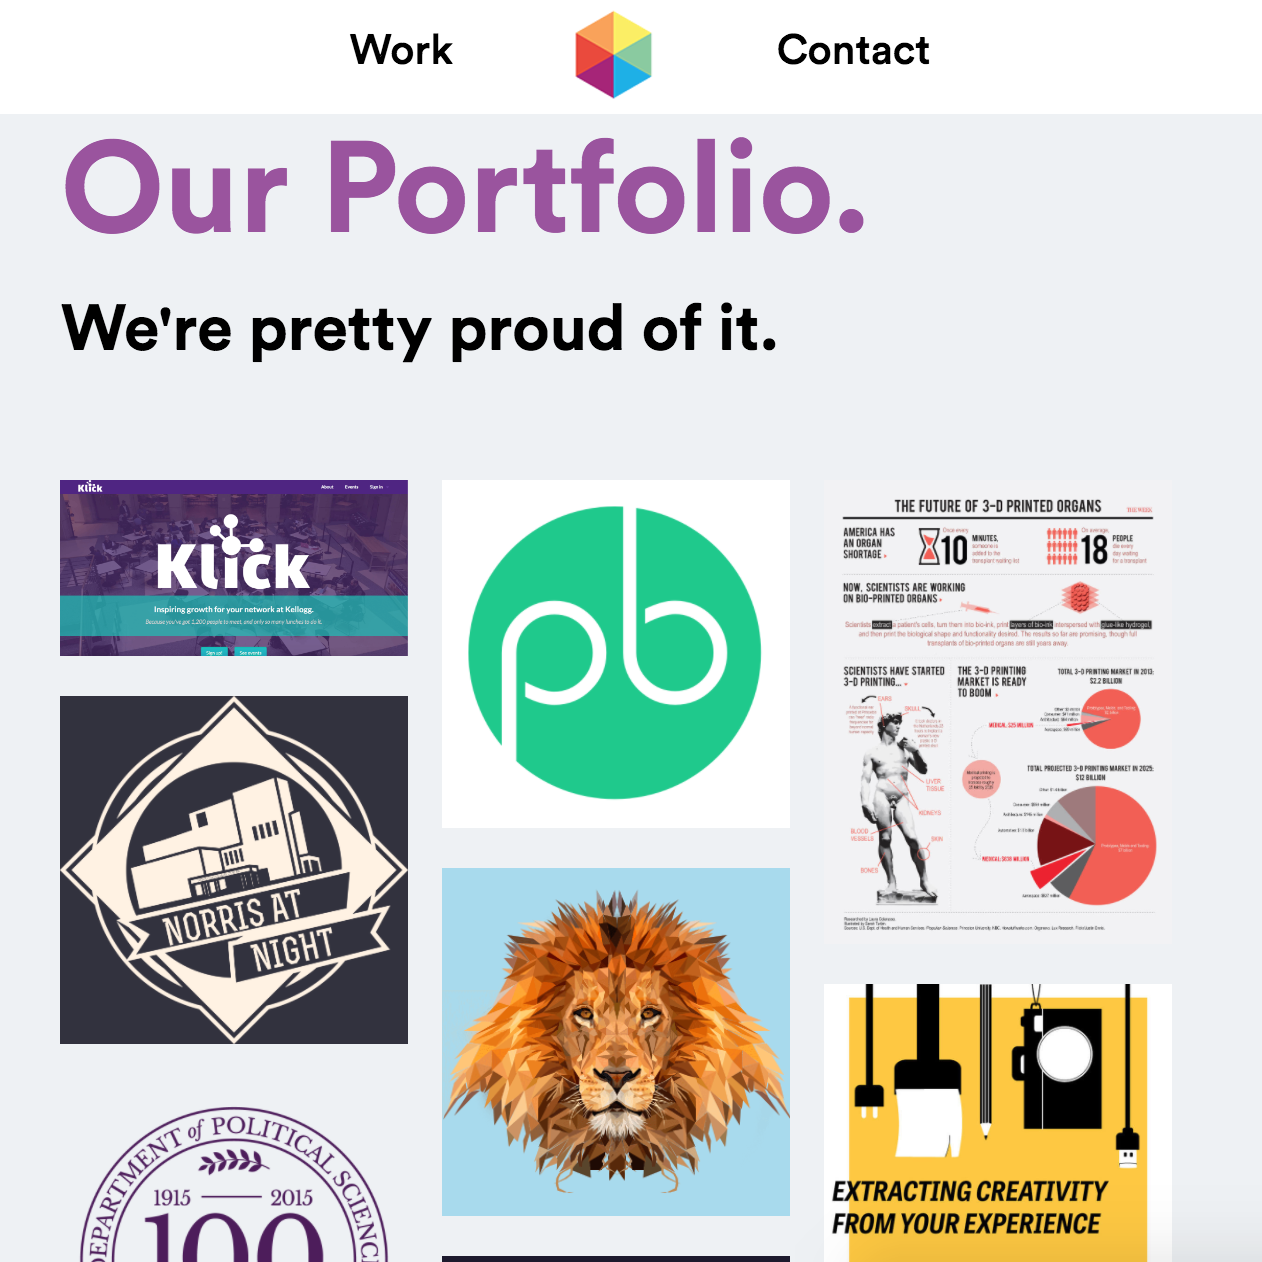
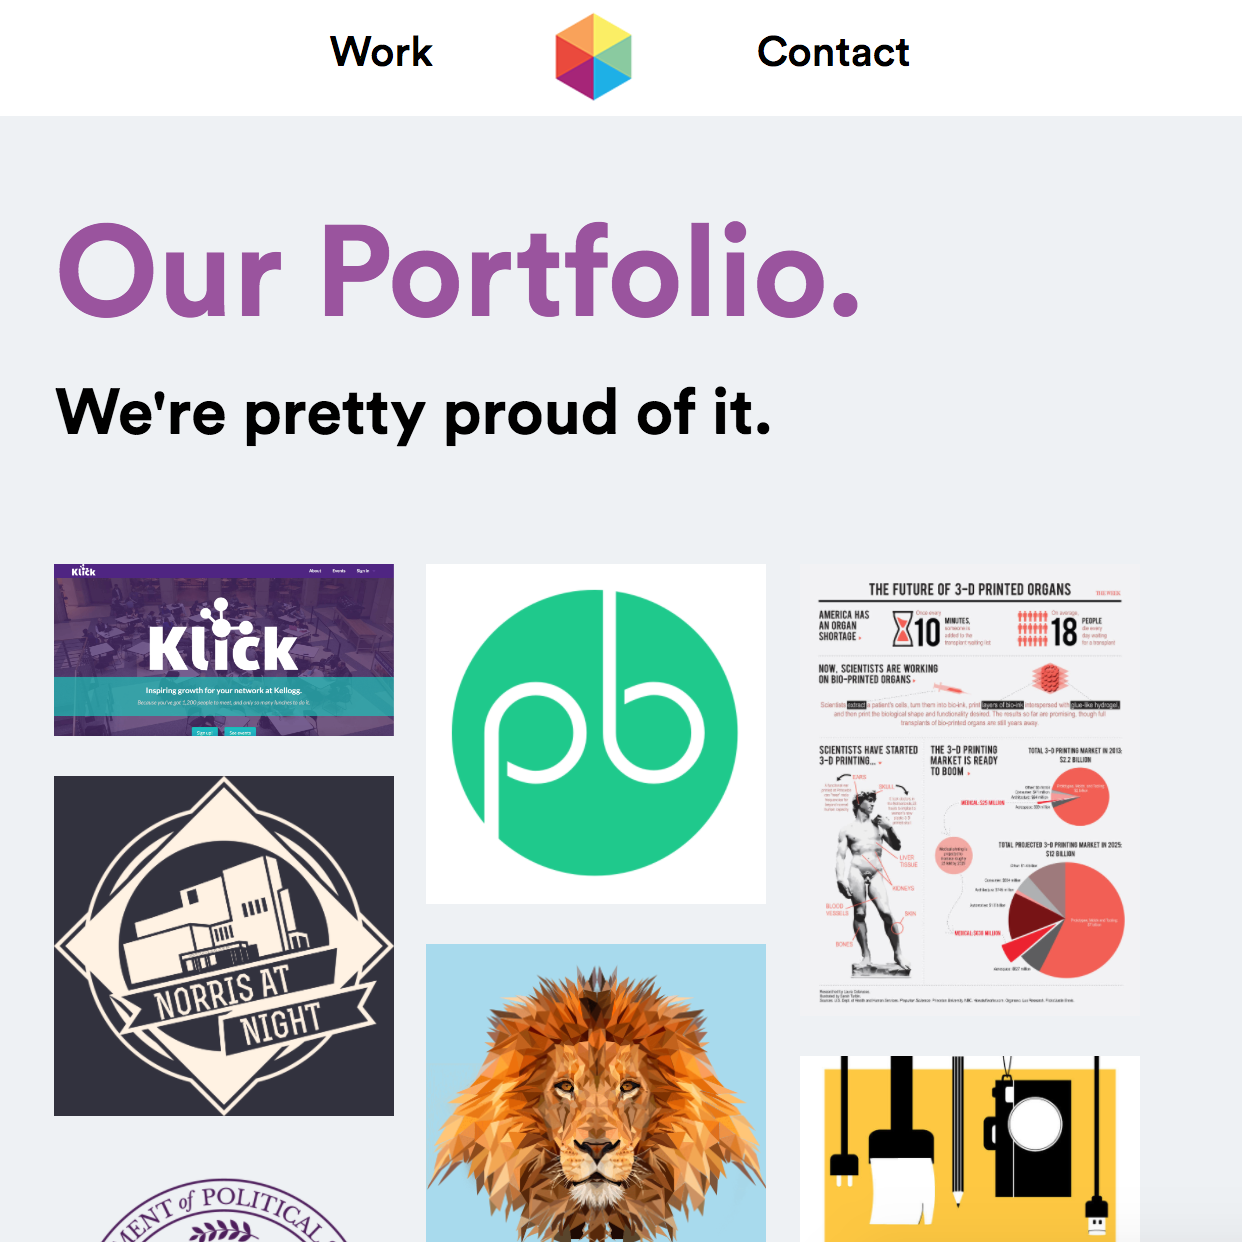
added roles, and some structure to collab

diff --git a/views/home.html b/views/home.html
@@ -16,25 +16,30 @@
 
 <section class=clearfix id=dwsite> 
     <div class="site-section col-offset-1  inlined col-14 red-border">
+
 <!--        <img class="logo-tag" src="img/logos/dwlogo.png">-->
-        <div class="hidden-wrap left medium-col-offset-2 col-offset-1 medium-col-12 col-7"><a target=_blank href="http://www.designworks.nu"><img  src="img/portfolio/DWImage.png" class="product-img-hover product-img col-16"></a></div>
+        <div class="hidden-wrap left medium-col-offset-2 col-offset-1 medium-col-12 col-7">
+<a target=_blank href="http://www.designworks.nu"><img  src="img/portfolio/DWImage.png" class="product-img-hover product-img col-16"></a>
+</div>
         <div class="medium-col-offset-2 col-offset-1 product medium-col-12 col-6 inlined">
             <h2 class="red product-title col-16">designworks</h2>
             <h5 class="thin product-description col-16">
-                <span class="normal-thick">the gist - </span> the business of our sales and the creativity of our design expressed as a direct, to-the-point <span class=normal>website</span> (with a colorful personality) <br><br>
-                <span class=normal-thick>inspiration - </span> designworks had a goal to move away from conventional web design and an ambition to push what unconventional could be. thus this new website. the 'unconventional' ideas in that site helped create this one.
+                <span class="normal-thick">the gist - </span> the business of our sales and the creativity of our design expressed as a direct, to-the-point <span class=normal>website</span> (with a colorful personality) 
+                <br><br>
+                <span class=normal-thick>the inspiration - </span> designworks had a goal to move away from conventional web design and an ambition to push what unconventional could be. thus this new website. the 'unconventional' ideas in that site helped create this one.
 <!--                front-end developer-->
-<!--                <br><br>-->
-<!--                <span class="normal-thick">tag - </span>front-end developer-->
-
-            </h5>
-            <a target=_blank href="http://www.designworks.nu" class="cta generate-button no-decoration aligned blue-border col-8 normal-thick" type="button">go to site</a>
+                <br><br>
+                <span class=normal-thick>the role - </span>front-end developer
+            <a target=_blank href="http://www.designworks.nu" class="cta generate-button no-decoration aligned blue-border col-8 normal-thick">go to site</a>
+</h5>
         </div>
+
     </div>  
 </section>
       
 <section class=clearfix id=escape>   
     <div class="site-section col-offset-1 inlined col-14 purple-border">
+
 <!--        <img src="img/logos/escape-logo.png" class="logo-tag">-->
         <div class="hidden-wrap right product-img rcol-offset-1 rmedium-col-offset-2 rmedium-col-12 col-7 right">
             <h6 class=normal>{{name}}</h6>
@@ -48,8 +53,12 @@
             <h5 class="thin product-description col-16">
                 <span class="normal-thick">the gist - </span> an itinerary generator to make the most of each day in Cape Town, South Africa all packaged into an <span class=normal>API</span> for easy access
                 <br><br>
-                <span class=normal-thick>background - </span> my favorite project to date. 4 days and a small team to scrape travel websites, create a database, write procedures to make itineraries, and bundle it all up on an ec2 instance. 
+                <span class=normal-thick>the background - </span> my favorite project to date. 4 days and a small team to scrape travel websites, create a database, write procedures to make itineraries, and bundle it all up on an ec2 instance. 
+                <br><br>
+            <span class=normal-thick>the role - </span>manager + developer
+
             </h5>
+            
 <!--            manager + developer  -->
             <button class="cta generate-button blue-border col-8 normal " type="button" ng-click="generate()">test it here</button>
         </div>
@@ -63,13 +72,17 @@
 <section class=clearfix id=metrics>   
     <div class="site-section col-offset-1 inlined col-14 orange-border">
 <!--        <img src="img/logos/metrics-logo.png" class="logo-tag">-->
-        <div class="hidden-wrap left medium-col-offset-2 col-offset-1 medium-col-12 col-7"><a target=_blank href="https://ashah.shinyapps.io/DwDashboard/"><img src="img/portfolio/kpidash.png" class="product-img-hover product-img col-16 inlined "></a></div>
+        <div class="hidden-wrap left medium-col-offset-2 col-offset-1 medium-col-12 col-7"><a target=_blank href="https://ashah.shinyapps.io/DwDashboard/">
+<img src="img/portfolio/kpidash.png" class="product-img-hover product-img col-16 inlined "></a></div>
         <div class="medium-col-offset-2 col-offset-1 product medium-col-12 col-6 inlined">
             <h2 class="orange product-title col-16">kpi dashboard</h2>
             <h5 class="thin product-description col-16">
                 <span class="normal-thick">the gist - </span> a dashboard to track all financial and sales metrics for designworks. tabulated and visualized in an <span class=normal>R shiny app</span> <span class=normal>(with example data).</span>
                 <br><br>
-                <span class=normal-thick>inspiration - </span> designworks uses a saas that will test just about anyone's patience. after quite a bit of data cleaning, manipulating, and visualizing this dashboard was deployed. 
+                <span class=normal-thick>the inspiration - </span> designworks uses a saas that will test just about anyone's patience. after quite a bit of data cleaning, manipulating, and visualizing this dashboard was deployed. 
+            <br><br>
+            <span class=normal-thick>the role - </span>data analytics developer
+
             </h5>
             <a target=_blank href="https://ashah.shinyapps.io/DwDashboard/" class="cta generate-button no-decoration aligned blue-border col-8 normal-thick" type="button">go to dash</a>
 <!--            data analytics developer-->
@@ -80,13 +93,16 @@
 <section class=clearfix id=curate>   
     <div class="site-section col-offset-1 inlined col-14 green-border">
 <!--        <img src="img/logos/curate-logo.png" class="logo-tag">-->
-        <div class="right rcol-offset-1 rmedium-col-offset-2 rmedium-col-12 col-7"><a target=_blank  href="https://github.com/armaanshah96/cuRate"><img  src="img/portfolio/curate.png" class="product-img-hover product-img col-16 inlined "></a></div>
+        <div class="hidden-wrap right rcol-offset-1 rmedium-col-offset-2 rmedium-col-12 col-7"><a target=_blank  href="https://github.com/armaanshah96/cuRate"><img  src="img/portfolio/curate.png" class="product-img-hover product-img col-16 inlined "></a></div>
         <div class="medium-col-offset-2 col-offset-1 product medium-col-12 col-6 inlined">
             <h2 class="green product-title col-16">curate</h2>
             <h5 class="thin product-description col-16">
                 <span class="normal-thick">the gist - </span> get your daily bite-sized update on your favorite twitter handles in your very own channel via <span class=normal>slack webhook</span>.
                 <br><br>
-                <span class=normal-thick>inspiration - </span> the election was red hot news this summer, but i felt so distant while abroad in cape town. two friends and i created cuRate to output the most favorited tweet from each specified twitter handle into our slack. i woke up everyday, read my quick snippet, and continued on my day feeling well-informed.
+                <span class=normal-thick>the inspiration - </span> the election was red hot news this summer, but i felt so distant while abroad in cape town. two friends and i created cuRate to output the most favorited tweet from each specified twitter handle into our slack. i woke up everyday, read my quick snippet, and continued on my day feeling well-informed.
+                <br><br>
+            <span class=normal-thick>the role - </span>developer
+
             </h5>
             <a target=_blank href="https://github.com/armaanshah96/cuRate" class="cta generate-button no-decoration aligned blue-border col-8 normal-thick" type="button">go to code</a>
 

diff --git a/styles.css b/styles.css
@@ -80,7 +80,7 @@ ul {
 .cta {
     background-color: white;
     border-radius: 5px;
-    font-size:1.6rem;
+    font-size:1.4rem;
     color: #828282;
 }
 
@@ -191,7 +191,6 @@ section {
 }
 
 .product-img {
-    margin:3rem 0;
     border-radius:5px;
 }
 
@@ -205,6 +204,7 @@ section {
 
 .hidden-wrap {
     display: inline-block;
+    margin:3em 0;
 }
 
 .about-desc {
@@ -231,7 +231,7 @@ section {
 }
 
 .product-description {
-    font-size:1.6em;
+    font-size:1.5em;
 }
 
 /*****************************************************        CONTENT SECTION     */
@@ -265,6 +265,15 @@ section {
 
 .contact-logo {
     padding:3em 2em;
+}
+
+.contact-logo > a img:hover {
+    -webkit-transform: rotate(30deg);
+    transform: rotate(30deg);
+    -webkit-transition: all 0.3s ease-in-out 0s;
+    -moz-transition: all 0.3s ease-in-out 0s;
+    -o-transition: all 0.3s ease-in-out 0s;
+    transition: all 0.3s ease-in-out 0s;
 }
 
 .works {
@@ -379,6 +388,7 @@ footer h6 {
 .col-14 {width: 87.5%;}
 .col-15 {width: 93.75%;}
 .col-16 {width: 100%;}
+.col-17 {width:110%;}
 
 /* LEFT offest */
 .col-offset-16 {margin-left: 100%;}
@@ -439,10 +449,13 @@ footer h6 {
     .product-description {
         font-size:1em;
     }
+    .cta {
+        font-size:1.3rem;
+    }
 }
 
 @media screen and (max-width:800px) {
-    .product-img {
+    .hidden-wrap {
 /*      cannot change margin with one statement*/
         margin-top:2.5rem;
         margin-bottom: 2.5rem;
@@ -484,7 +497,7 @@ footer h6 {
         width:75%;
     }
     
-    .product-img {
+    .hidden-wrap {
         margin-bottom: 1rem;
     }
 /*
@@ -514,13 +527,10 @@ footer h6 {
         float:left;
         margin-right:0;
     }
-    .product-title {
-        font-size:1.6em;
-    }
+
     .meta {
         font-size: 1em;
     }
-    
 }
 
 @media screen and (max-width:470px) {

diff --git a/views/about.html b/views/about.html
@@ -2,7 +2,7 @@
     <div class="col-14 main-text">
 <!--        <h1 class="primary">armaan shah</h1>-->
         <h3 class=subtitle>hi, my name is <a href='#/' class="no-decoration gray medium">armaan</a>. take a <a href='#work' class="green">look</a> at my work. drop a line. let's <a href='#contact' class=orange>collaborate</a>.</h3>
-        <div class=about-img-wrap><img src="img/propic.jpg" class="product-img me-img medium-col-offset-2 col-offset-1 medium-col-8 col-8 blue-border left clear-left inlined "></div>
+        <div class=about-img-wrap><img src="img/propic.jpg" class="hidden-wrap product-img me-img medium-col-offset-2 col-offset-1 medium-col-8 col-8 blue-border left clear-left inlined "></div>
         <div class="medium-col-offset-2 col-offset-1 about-desc medium-col-12 col-5 inlined">
             <h2 class="blue product-title title-font col-16">who i am</h2>
             <p class="thin product-description col-16">

diff --git a/views/contact.html b/views/contact.html
@@ -9,7 +9,7 @@
             <li class="contact-logo inlined"><a href="mailto:armaanshah96@gmail.com"><img src="./img/social-icons/mailbox.png" class="col-10 "></a></li>
             <li class="contact-logo inlined"><a target="_blank" href="https://www.facebook.com/armaan.shah.77"><img  src="./img/social-icons/facebook.png" class="col-10 "></a></li>
         </ul>
-        <h5 class=thin>have questions/a project/a team or none of the sort?  let's connect, i'd love to contribute or hear more about you!</h5>
+        <h5 class=thin><span class=normal-thick>reach out - </span>have questions/a project/a team or none of the sort?  let's connect, i'd love to contribute or hear more about you!</h5>
     </div>
 </section>
 <div footer></div>
